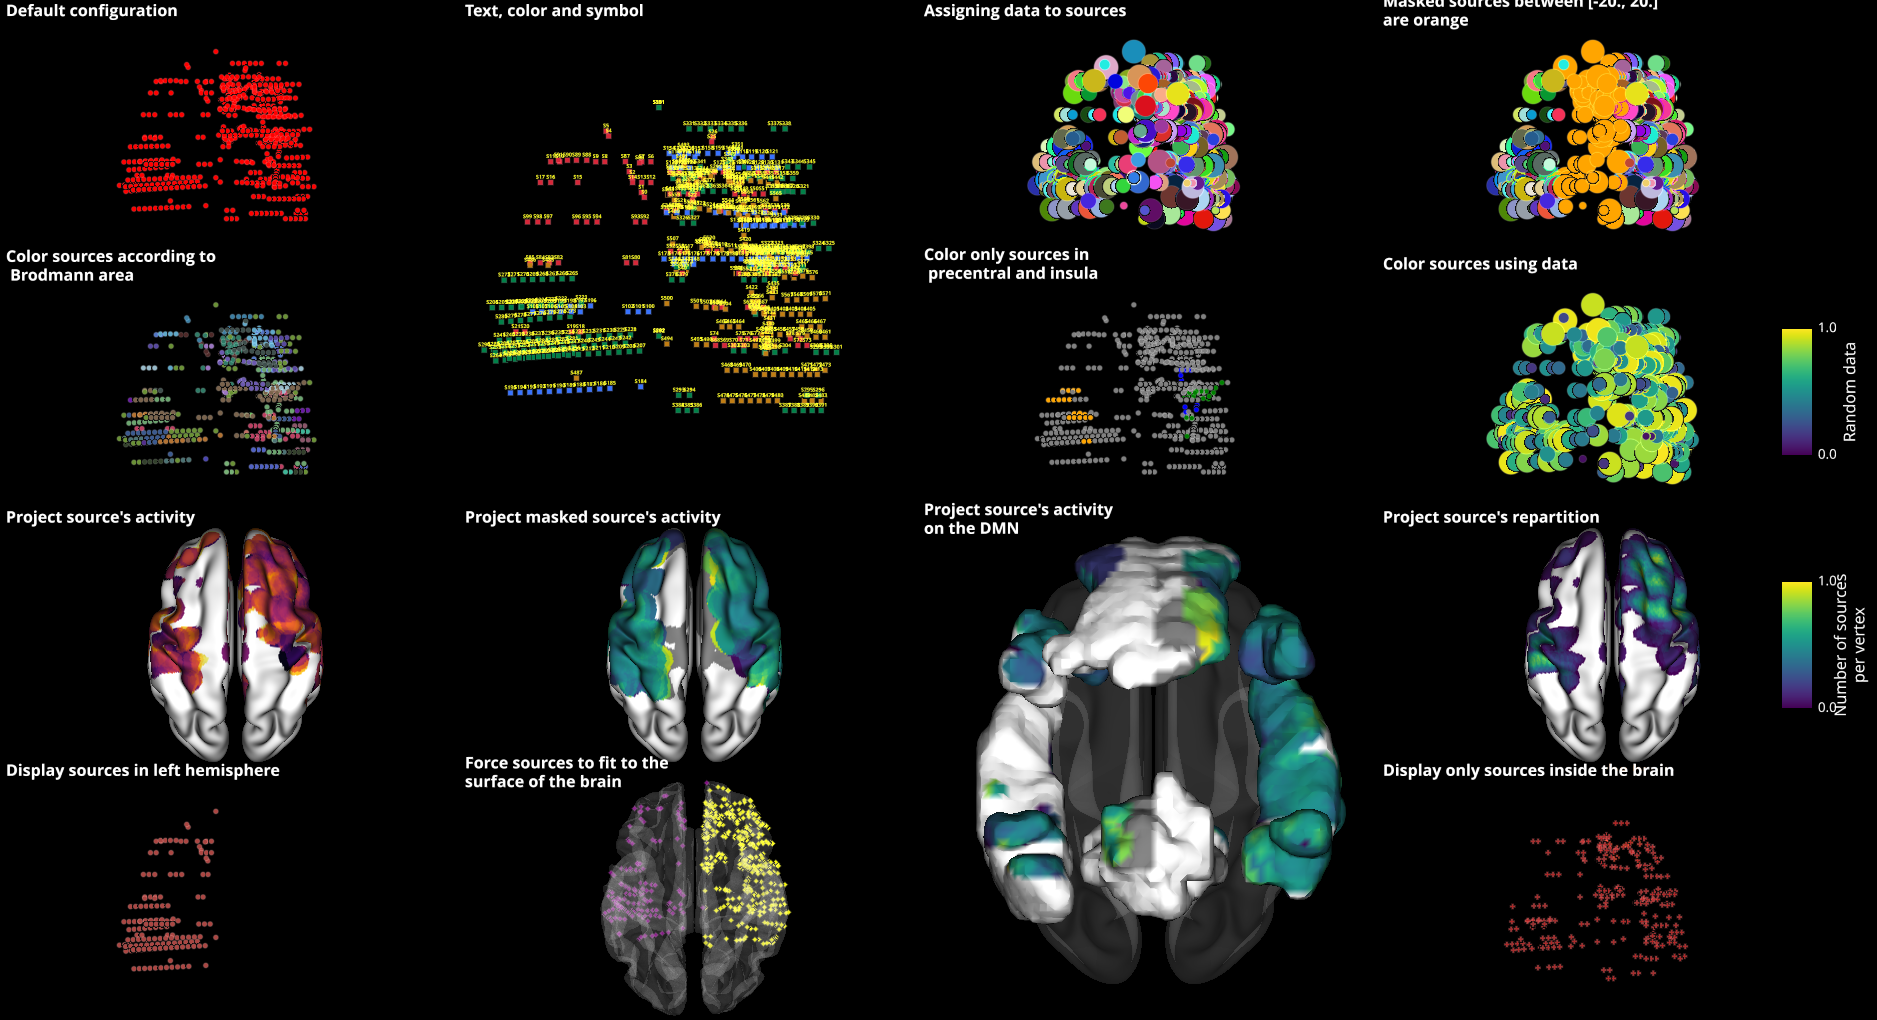
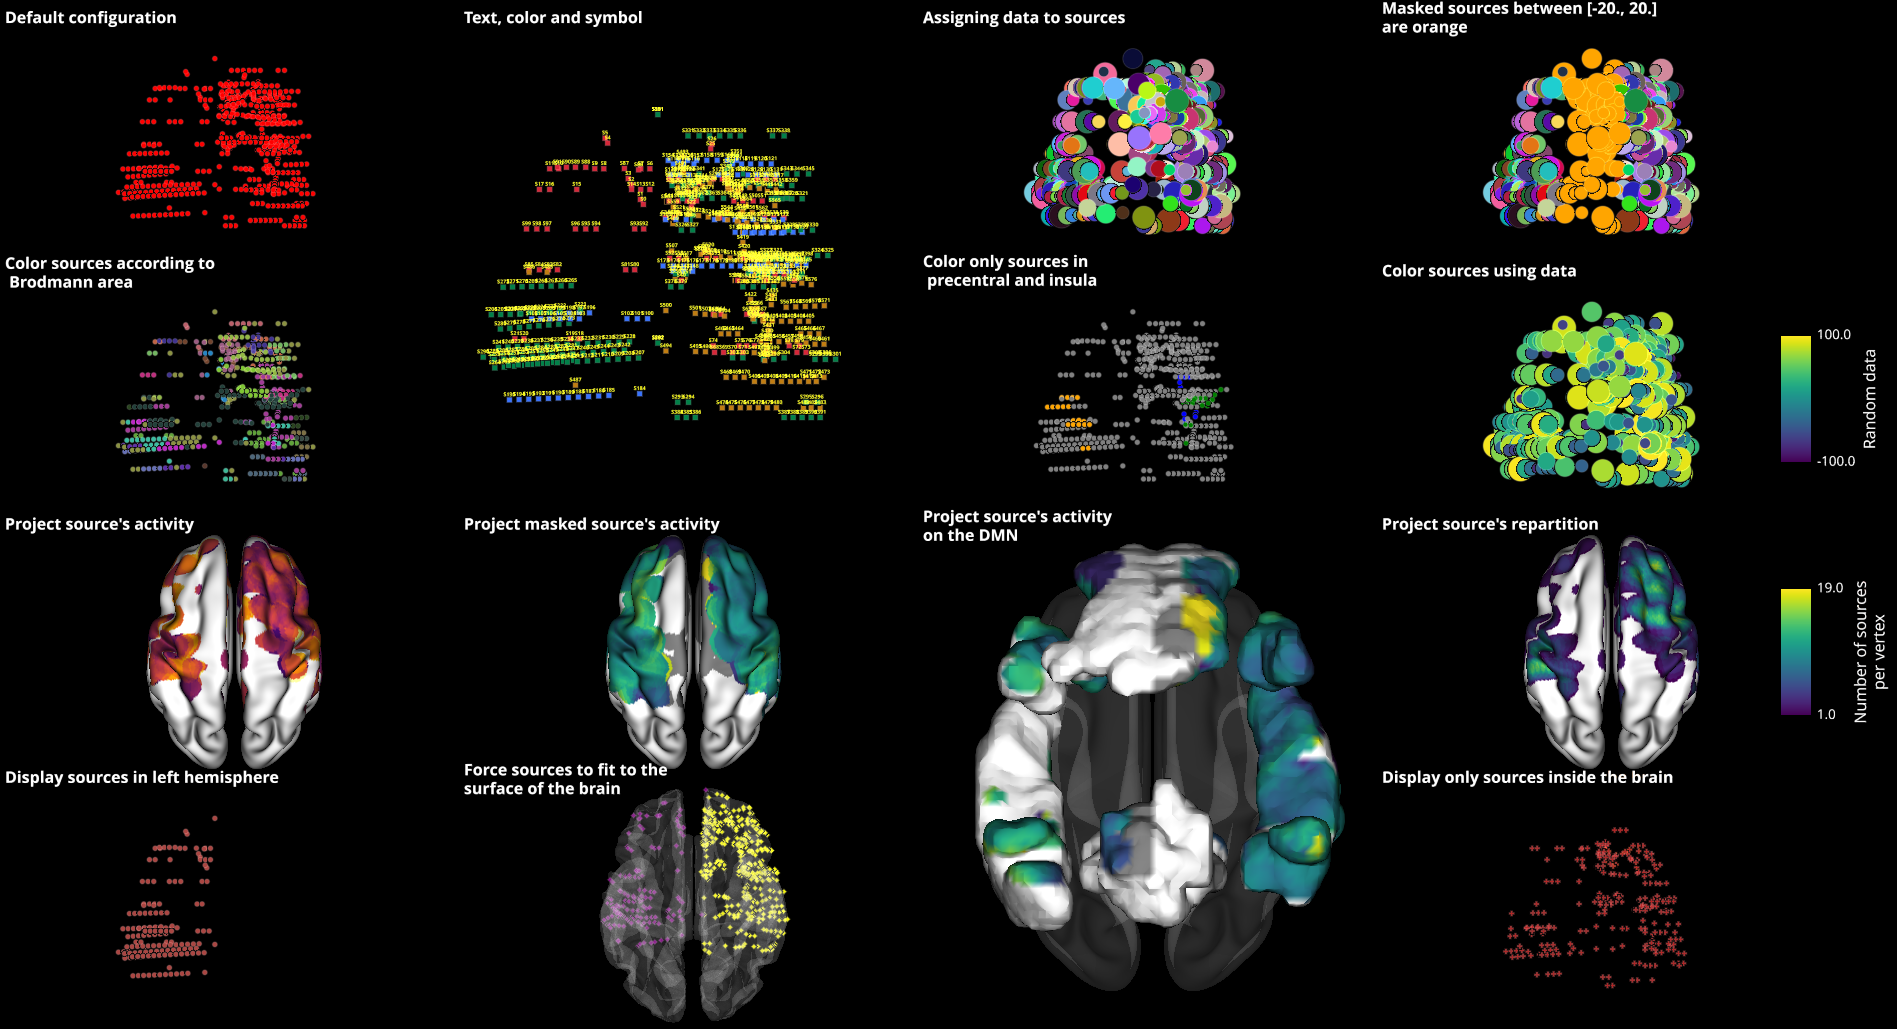
Fix source example

diff --git a/examples/objects/ex_source_obj.py b/examples/objects/ex_source_obj.py
@@ -63,7 +63,8 @@ CAM_STATE = dict(azimuth=0,        # azimuth angle
 S_KW = dict(camera_state=CAM_STATE)
 # Create the scene
 sc = SceneObj(size=(1600, 1000))
-CBAR_STATE = dict(cbtxtsz=12, txtsz=10., width=.5, rect=(1., -2., 1., 4.))
+CBAR_STATE = dict(cbtxtsz=12, txtsz=10., width=.5, cbtxtsh=3.,
+                  rect=(1., -2., 1., 4.))
 
 ###############################################################################
 # Basic source object
@@ -100,7 +101,7 @@ sc.add_to_subplot(s_obj_col, row=0, row_span=2, col=1,
 # the dynamic of radius sources
 
 # Create some random data of shape (n_sources,)
-rnd_data = np.random.rand(n_sources)
+rnd_data = np.random.uniform(low=-100, high=100, size=(n_sources,))
 # Control the radius range of sources
 radius_min = 7.
 radius_max = 25.
@@ -193,7 +194,7 @@ sc.add_to_subplot(s_obj_aal, row=1, col=2,
 s_obj_data = SourceObj('S3', xyz, data=rnd_data, radius_min=radius_min,
                        radius_max=radius_max)
 # Color sources according to a data vector
-s_obj_data.color_sources(data=rnd_data, cmap='viridis', clim=(-0, 1),)
+s_obj_data.color_sources(data=rnd_data, cmap='viridis', clim=(-100, 100),)
 # Get the colorbar of the source object
 cb_data = ColorbarObj(s_obj_data, cblabel='Random data', border=False,
                       **CBAR_STATE)
@@ -262,8 +263,8 @@ s_rep = SourceObj('proj', xyz, data=rnd_data)
 b_rep = BrainObj('B3', translucent=False)
 # Project source's activity on the surface of the brain
 s_rep.project_sources(b_rep, cmap='viridis', project='repartition')
-# Get the colorbar of the source object
-cb_rep = ColorbarObj(s_rep, cblabel='Number of sources\nper vertex',
+# Get the colorbar of the brain object
+cb_rep = ColorbarObj(b_rep, cblabel='Number of sources\nper vertex',
                      border=False, **CBAR_STATE)
 sc.add_to_subplot(b_rep, row=2, col=3, title="Project source's repartition")
 sc.add_to_subplot(cb_rep, row=2, col=4)
